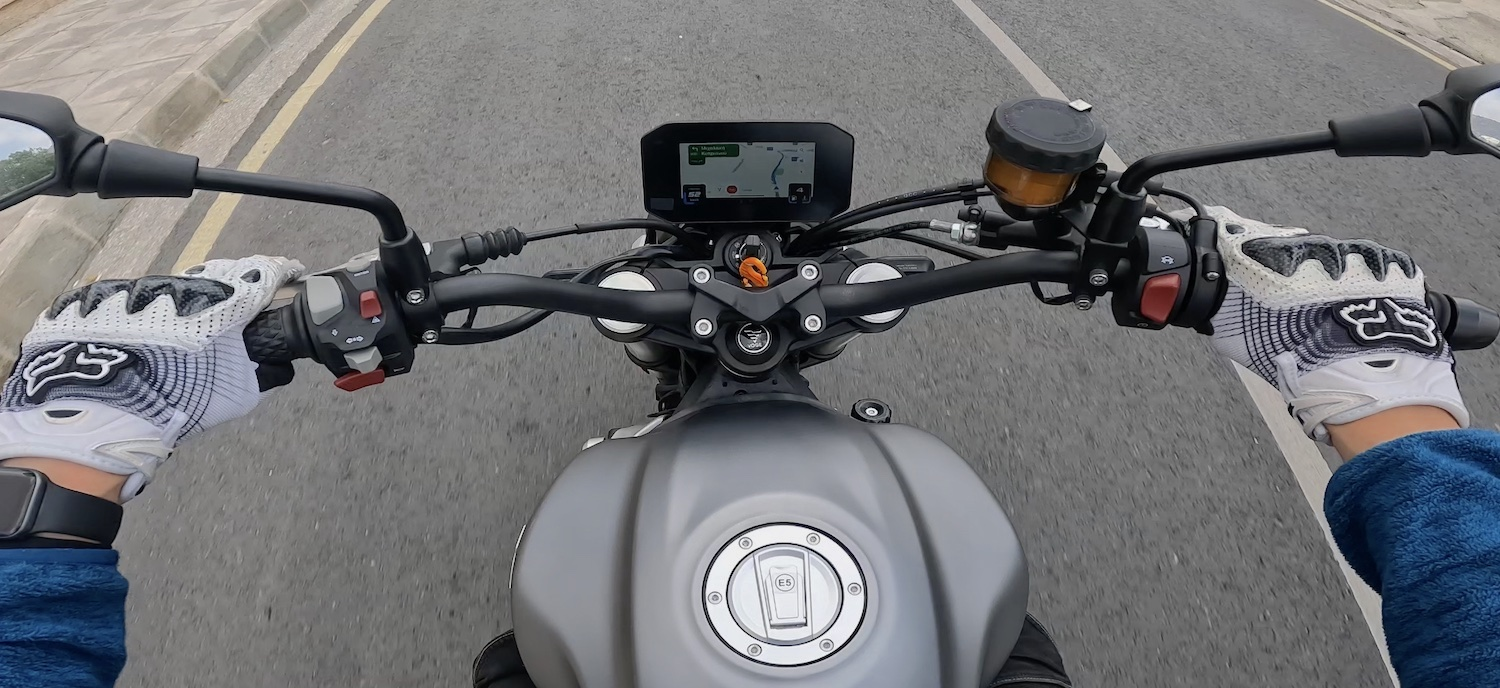
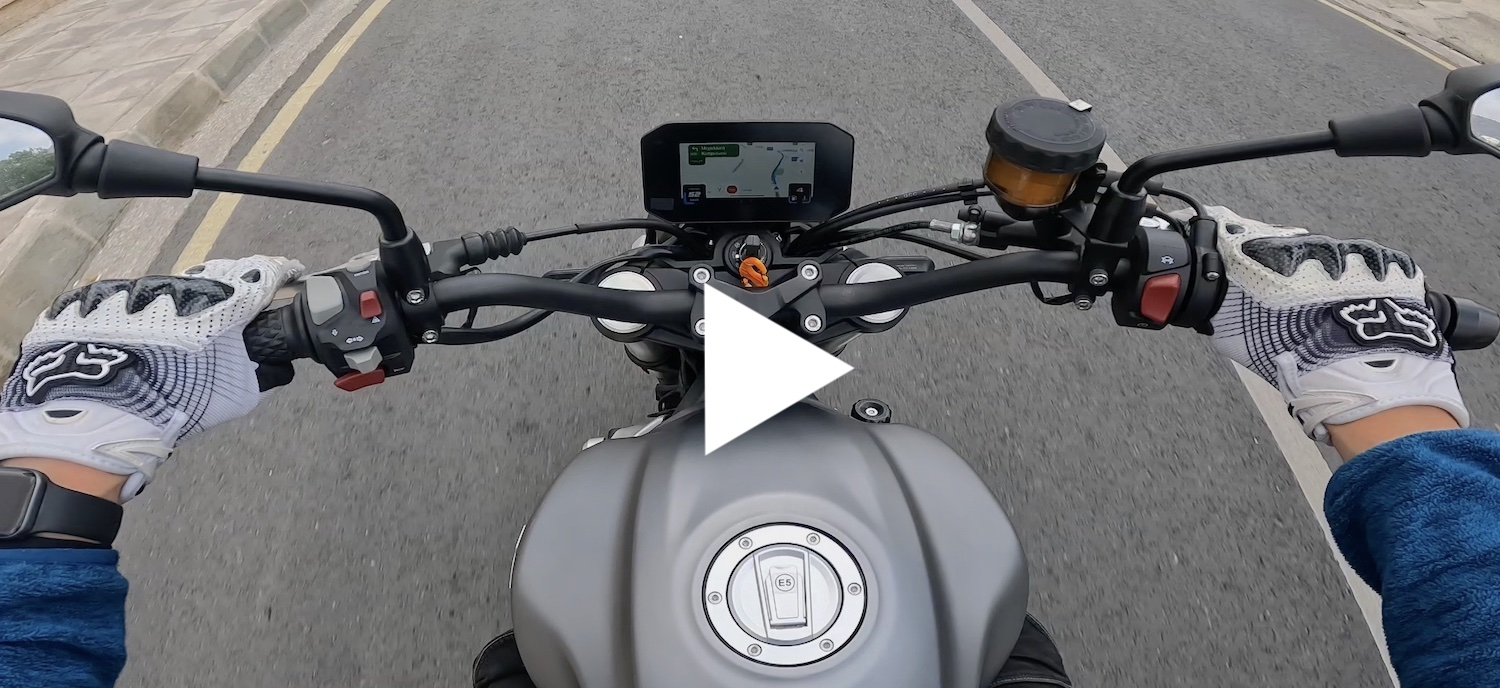
Link youtube demo

Changed region(s): [[0.46, 0.3968, 0.5827, 0.6715]]

diff --git a/README.md b/README.md
@@ -1,6 +1,7 @@
 # Screen mirroring on Voge 500AC motorcycle
 
-![demo](9.header-demo.jpg)
+[![demo](9.header-demo.jpg)](https://www.youtube.com/watch?v=1sxNRohE6uE)
+https://www.youtube.com/watch?v=1sxNRohE6uE
 
 So, if you got the bike and noticed Wi-Fi connection isn't used for anything – you are not alone! Hopefully this guide will help you to get something working. This is the result of my (ongoing) research on how to stream from the mobile phone to the dashboard.
 
